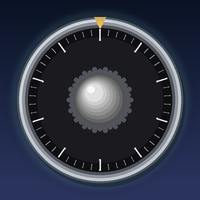
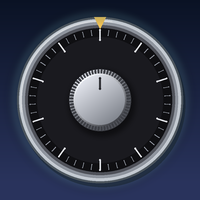
cosmetics

Changed region(s): [[0.33, 0.33, 0.69, 0.69]]

diff --git a/crack/docs/design.md b/crack/docs/design.md
@@ -83,10 +83,14 @@ Index 1: `selected_preset` (index into GUIDED_PRESETS)
 
 **The safe** (the 2026-10-24 look pass; same geometry as before, which the tutorial's spotlights
 recompute): a dark wall lit softly from in front; the door in BRUSHED STEEL (a top-left-lit gradient,
-fine horizontal grain fixed per row by a hash, `_draw_brushing`), bevelled (`_draw_bevel`: lit top and
+fine horizontal grain fixed per row by a hash, `_draw_brushing`), beveled (`_draw_bevel`: lit top and
 left, shaded bottom and right) with a recessed panel; steel hex bolts; and the handle a three-spoke
 chrome wheel that **turns with the holds** (`_short_angle`, which the game always tracked and never
-showed), as the dial turns with the slides. The dial: a chrome bezel in light and dark rings, a black
+showed), as the dial turns with the slides. Its ball ends and its hub are each shaded in ONE piece from
+the top left (`_shaded_disc`, per-vertex colors), the hub a beveled boss -- a chamfer lit top-left and
+dark bottom-right round a nearly flat face -- with a hex bolt dead center that turns with it.
+(2026-10-30: the hub and the balls each had a lighter disc stacked off center on them, which read as
+misplaced circles.) The dial: a chrome bezel in light and dark rings, a black
 face with silver ticks and numbers, and the KNOB (`_draw_knob`): a turned-metal grip seen from above --
 a soft shadow, a skirt of fine grip ridges that turn with the dial and catch the light on its top-left
 side, a beveled edge, a flat machined cap shaded smoothly from the top left (the light is fixed on the
@@ -448,5 +452,5 @@ reason the seeded demo data gives its player a dominant pair.
 
 `art/game_screen_200.png` is **drawn** (`devtools/make_thumbs.py`, `crack_safe()`), not grabbed. The old
 tile was a screen grab of the session screen. It is now the game's steel dial close up (its closed-dial
-colors from `level.gd`), a gold pointer at the top, in a soft cyan glow of breath -- a plain circle; a
+colors from `level.gd`, and its knob ported from `_draw_knob` as `_crack_knob`), a gold pointer at the top, in a soft cyan glow of breath -- a plain circle; a
 wavy line round it read as a flower. The calm games' shared dusk look (Breathe, Buoy).
